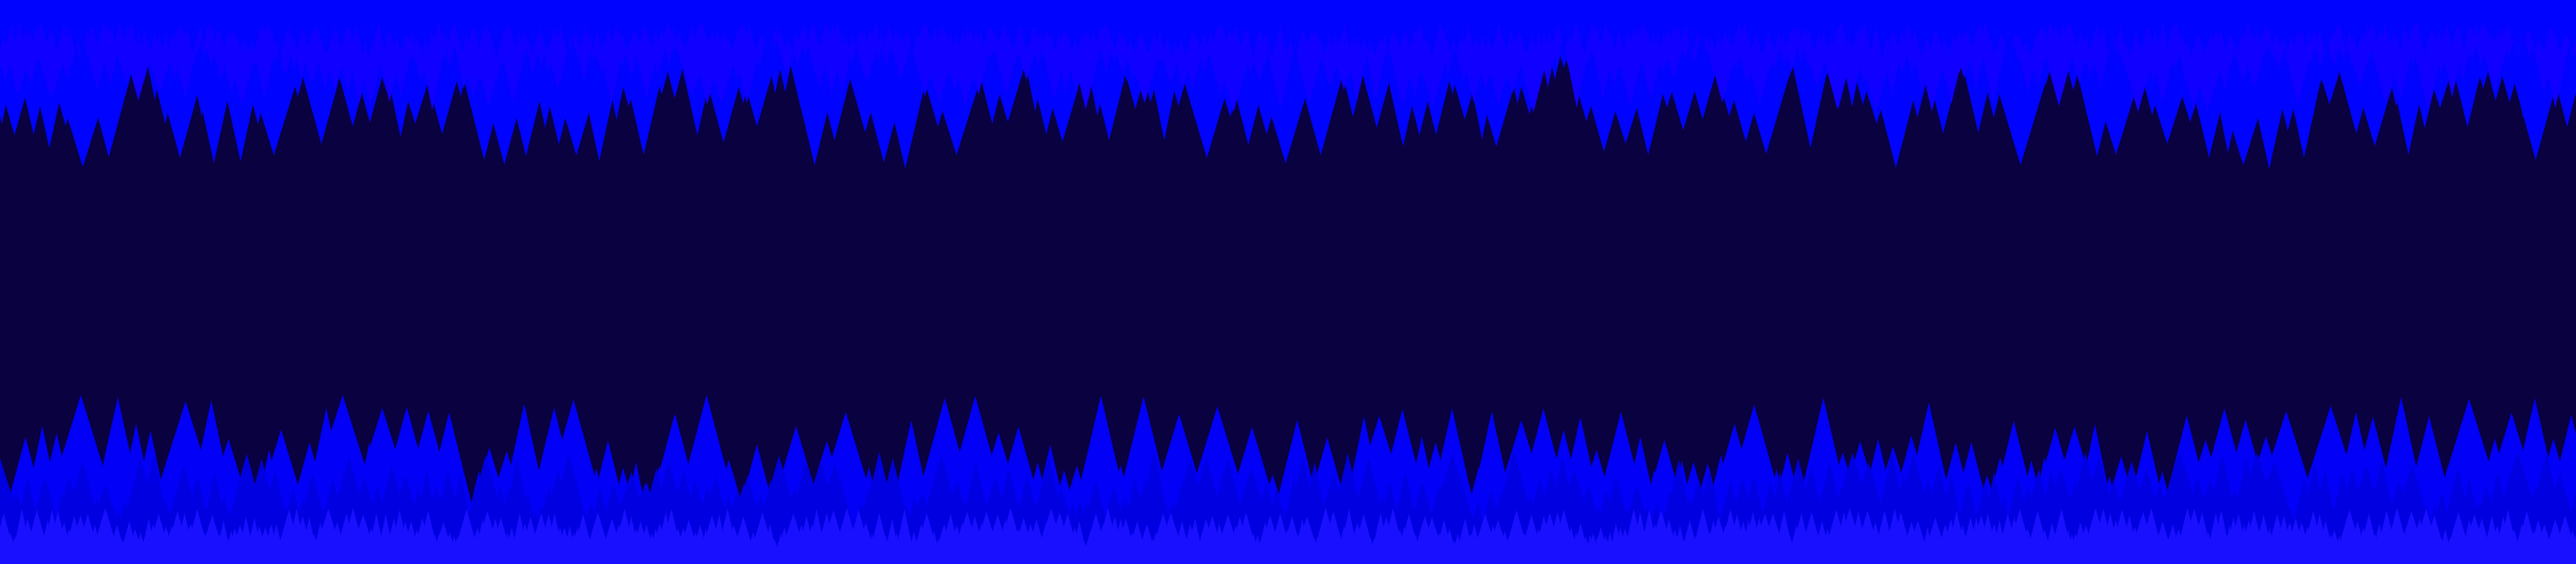
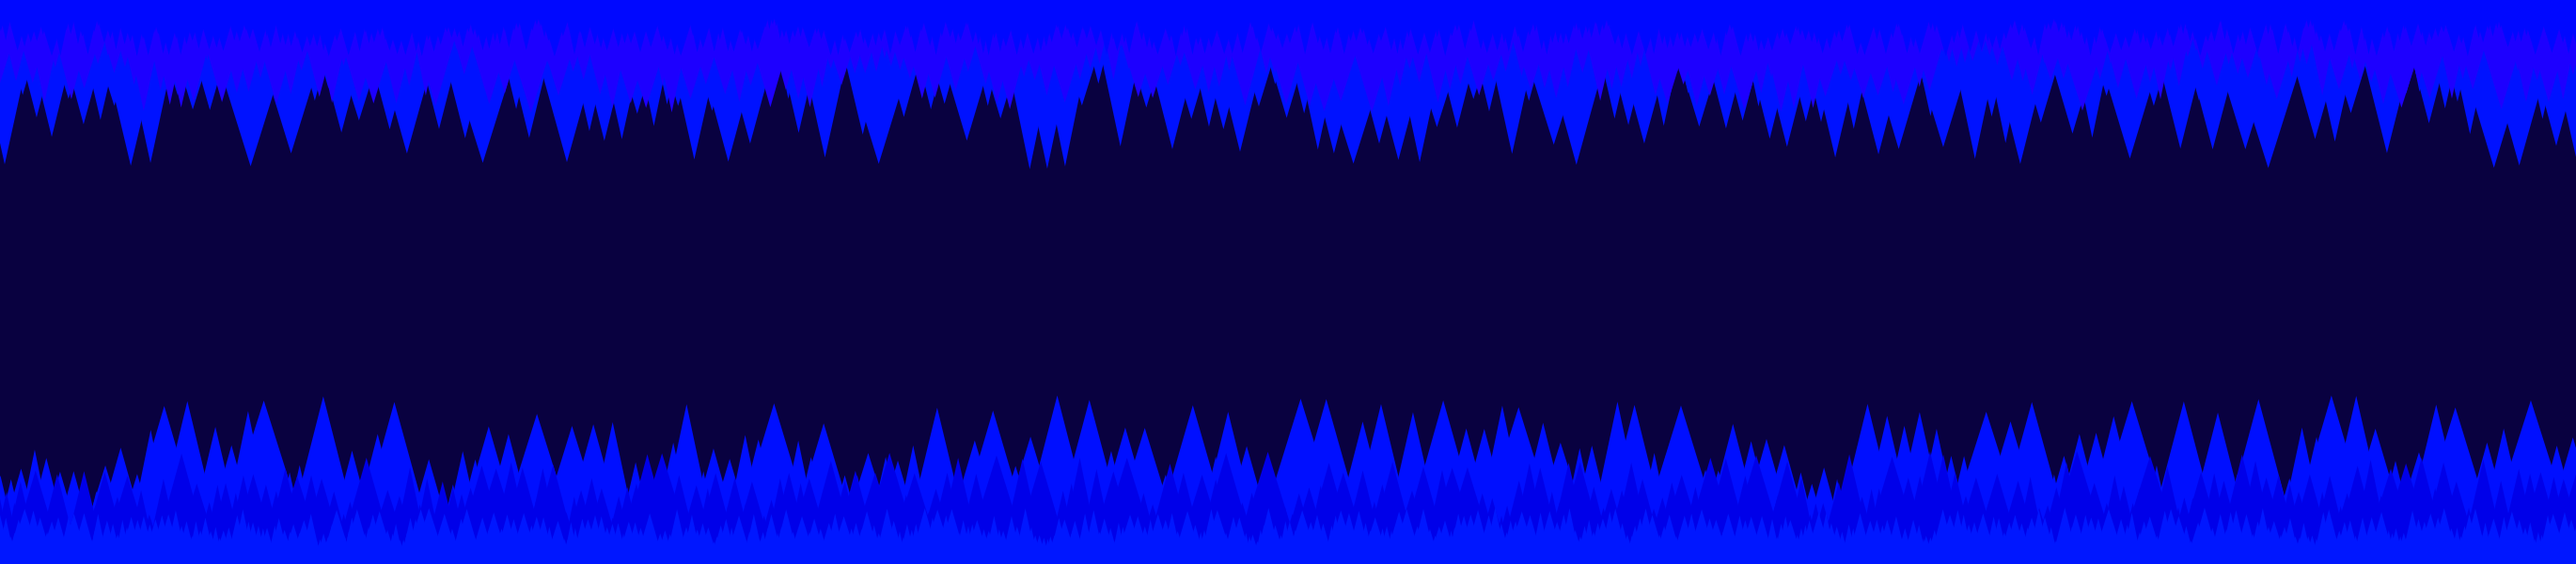
generated background images and added to res folder, implemented scrolling with arrow key presses

diff --git a/src/MineGraphics.java b/src/MineGraphics.java
@@ -1,6 +1,5 @@
 import edu.macalester.graphics.CanvasWindow;
 import edu.macalester.graphics.GraphicsGroup;
-import edu.macalester.graphics.GraphicsObject;
 import edu.macalester.graphics.Path;
 
 import java.awt.Color;
@@ -9,9 +8,13 @@ public class MineGraphics {
 
     private static Color color;
     private static GraphicsGroup mineGroup;
-    private static double CANVAS_WIDTH = 1600; // change this to pull from canvas settings in game class
+    private static double CANVAS_WIDTH = 2400; // change this to pull from canvas settings in game class
     private static double CANVAS_HEIGHT = 300; // change this to pull from canvas settings in game class
     private static final Color CAVE_BACKGROUND_BLUE = new Color(9, 1, 64);
+    private static final Color CAVE_BACKGROUND_GREEN = new Color(10, 40, 3);
+    private static final Color CAVE_BACKGROUND_RED = new Color(75, 10, 5);
+    private static final Color CAVE_BACKGROUND_YELLOW = new Color(120, 105, 15);
+    private static final Color CAVE_BACKGROUND_WHITE = Color.darkGray;
 
 
     public MineGraphics(Color color) {
@@ -19,14 +22,20 @@ public class MineGraphics {
         mineGroup = new GraphicsGroup(0,0);
     }
 
+    // running main method will produce and save a background image for the mine in the uncommented color scheme
     public static void main(String[] args) {
-        MineGraphics graph = new MineGraphics(Color.BLUE);
+        MineGraphics graph = new MineGraphics(Color.BLUE); // blue
+        // MineGraphics graph = new MineGraphics(new Color(20, 137, 15)); // green
+        // MineGraphics graph = new MineGraphics(Color.RED); // red
+        // MineGraphics graph = new MineGraphics(Color.YELLOW); // yellow
+        // MineGraphics graph = new MineGraphics(Color.lightGray); // white, NOTE CHANGE COLOR VAR TO 20-30 IN CAVES
+
         CanvasWindow canvas = new CanvasWindow("Mine", 1600, 300);
         canvas.setBackground(CAVE_BACKGROUND_BLUE);
         graph.addCave(150, color);
         canvas.add(mineGroup);
         canvas.draw();
-        canvas.screenShot("BlueCave.png");
+        // canvas.screenShot("WhiteCave.png");
     }
 
     /**

diff --git a/src/Game.java b/src/Game.java
@@ -3,6 +3,7 @@ import java.awt.Color;
 import edu.macalester.graphics.CanvasWindow;
 import edu.macalester.graphics.GraphicsObject;
 import edu.macalester.graphics.Point;
+import edu.macalester.graphics.events.Key;
 
 public class Game {
     private static Mine mine;
@@ -42,6 +43,14 @@ public class Game {
                     rockDissolve(canvas, axe.testRockHit(canvas, mine));
                 }
             });
+
+            canvas.onKeyDown( event -> {
+                if(event.getKey() == Key.LEFT_ARROW )
+                    mine.getGraphicsGroup().moveBy(5, 0); // change delta x depending on how fast cart should move
+    
+                if(event.getKey() == Key.RIGHT_ARROW ) 
+                    mine.getGraphicsGroup().moveBy(-5, 0); // change delta x depending on how fast cart should move
+                });
     
 
         }

diff --git a/src/Mine.java b/src/Mine.java
@@ -28,11 +28,11 @@ public class Mine implements Background{
      * Generates visual elements of mine, including cave wall image and rocks.
      */
     public void generateMine() {
-        Image icon = new Image(0, 0);
+        Image icon = new Image(-800, 0);
         icon.setImagePath("BlueCave.png");
         mineGroup.add(icon);
 
-        rocks = new RockManager(10, CANVAS_HEIGHT, CANVAS_WIDTH);
+        rocks = new RockManager(30, CANVAS_HEIGHT, CANVAS_WIDTH);
         rocks.drawRocks(mineGroup);
     }
 

diff --git a/src/RockManager.java b/src/RockManager.java
@@ -14,7 +14,7 @@ public class RockManager {
      */
     public RockManager(int numRocks, double canvasHeight, double canvasWidth){
 
-        double totalWidth = canvasWidth; // can be modified if scrolling implemented
+        double totalWidth = 2400; // 2400 is length of entire canvas, with scrolling
 
         for (int i = 0; i < numRocks; i++){
             Rock topRock = new Rock(
